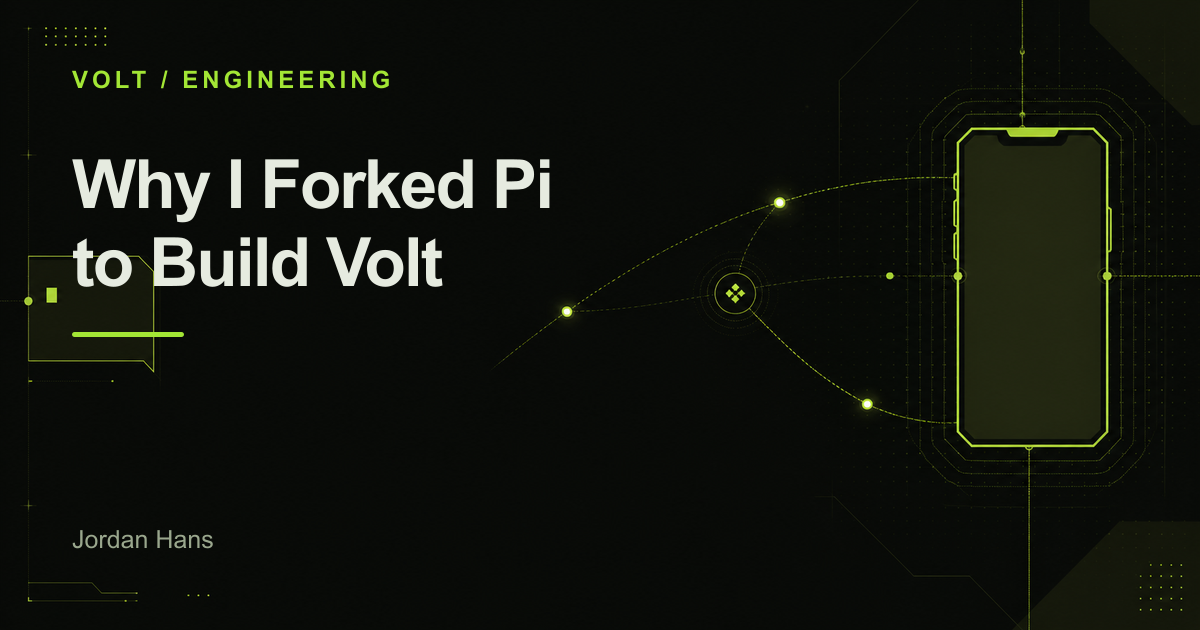
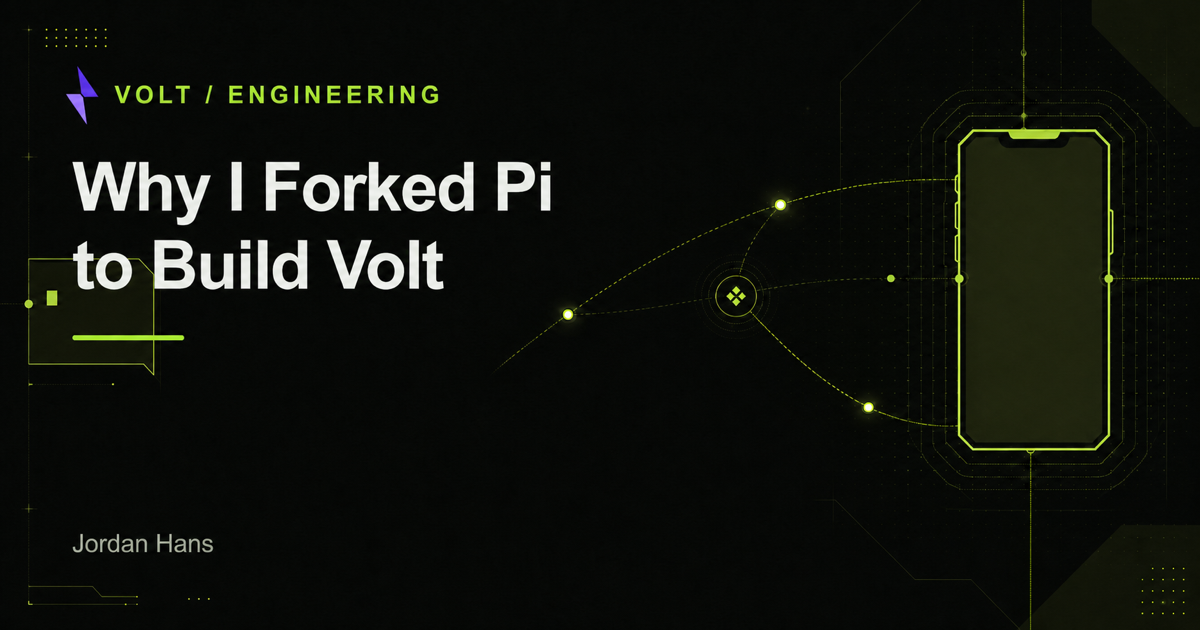
fix: render blog social image on page

diff --git a/site/src/styles/blog.css b/site/src/styles/blog.css
@@ -154,6 +154,15 @@ pre {
   text-decoration: none;
 }
 
+.post-card-image {
+  display: block;
+  width: 100%;
+  height: auto;
+  margin-bottom: 1.2rem;
+  border: 1px solid var(--border);
+  border-radius: 8px;
+}
+
 .post-card h2 {
   margin: 0.25rem 0 0.55rem;
   font-size: 1.35rem;
@@ -195,6 +204,15 @@ pre {
 .post-shell {
   max-width: 46rem;
   margin-inline: auto;
+}
+
+.post-hero {
+  display: block;
+  width: 100%;
+  height: auto;
+  margin: -1rem 0 2.5rem;
+  border: 1px solid var(--border);
+  border-radius: 10px;
 }
 
 .post-header h1 {

diff --git a/site/src/content.config.ts b/site/src/content.config.ts
@@ -13,6 +13,7 @@ const blog = defineCollection({
     updatedAt: z.coerce.date().optional(),
     author: z.string().default("Jordan Hans"),
     image: z.string().optional(),
+    imageAlt: z.string().optional(),
     tags: z.array(z.string()).default([]),
     draft: z.boolean().default(false),
   }),

diff --git a/site/README.md b/site/README.md
@@ -24,7 +24,7 @@ npm run build      # syncs docs, then builds to dist/
 
 Docs edits go in `packages/coding-agent/docs/`; re-run `npm run sync-docs` (or restart dev) to pick them up. New pages must be added to `docs.json` to appear in the sidebar.
 
-Blog posts go in `src/content/blog/` and require `title`, `description`, and `publishedAt` frontmatter. `author` defaults to Jordan Hans, `tags` defaults to an empty list, and `draft` defaults to `false`. Set optional `image` to a public-root path for a 1200×630 social card; post metadata uses it for Open Graph, Twitter, and structured data. Start posts with `draft: true`, review them through the local or Cloudflare preview, then remove the flag to publish.
+Blog posts go in `src/content/blog/` and require `title`, `description`, and `publishedAt` frontmatter. `author` defaults to Jordan Hans, `tags` defaults to an empty list, and `draft` defaults to `false`. Set optional `image` to a public-root path for a 1200×630 hero/social card and provide `imageAlt`; the post page, blog index, Open Graph, Twitter, and structured data all use it. Start posts with `draft: true`, review them through the local or Cloudflare preview, then remove the flag to publish.
 
 ## Deploying to Cloudflare (Workers Builds)
 

diff --git a/site/src/content/blog/why-i-forked-pi-to-build-volt.md b/site/src/content/blog/why-i-forked-pi-to-build-volt.md
@@ -4,6 +4,7 @@ description: "How experimenting with coding-agent harnesses led me from Pi exten
 publishedAt: 2026-08-24
 author: Jordan Hans
 image: /blog/why-i-forked-pi-to-build-volt-og.png
+imageAlt: "The purple Volt logo above a terminal prompt connected over a network to a phone beside the title Why I Forked Pi to Build Volt."
 tags:
   - product
   - engineering
